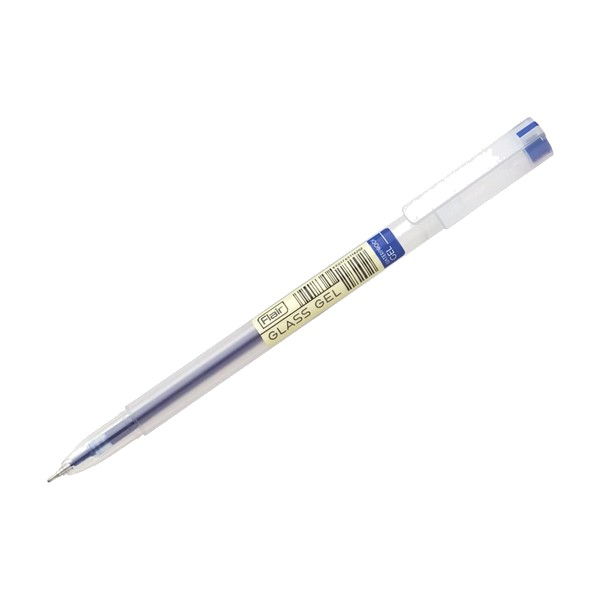
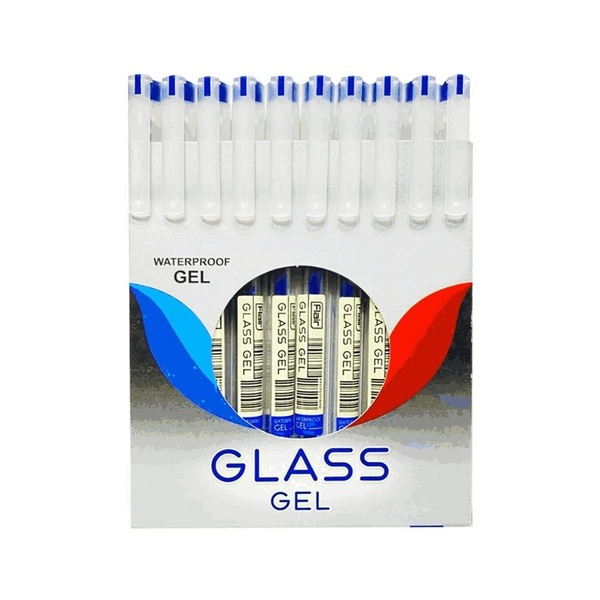
Update Batch 4 product images: Flair Glass Gel, Luxor Uniflow, Unomax Ultron 2X, remove discontinued Fevicol photo

diff --git a/src/data/products.ts b/src/data/products.ts
@@ -2659,7 +2659,6 @@ export const PRODUCTS: Product[] = [
     "isNew": false,
     "sku": "PID-FEV-5",
     "images": [
-      "https://ggumahzbwhgvgortfnvz.supabase.co/storage/v1/object/public/product-images/fevicol-mr-bottle.png",
       "https://ggumahzbwhgvgortfnvz.supabase.co/storage/v1/object/public/product-images/fevicol-mr-nozzle.jpg",
       "https://ggumahzbwhgvgortfnvz.supabase.co/storage/v1/object/public/product-images/fevicol-mr-spiderman.jpg"
     ],
@@ -2714,7 +2713,6 @@ export const PRODUCTS: Product[] = [
     "isNew": false,
     "sku": "PID-FEV-10",
     "images": [
-      "https://ggumahzbwhgvgortfnvz.supabase.co/storage/v1/object/public/product-images/fevicol-mr-bottle.png",
       "https://ggumahzbwhgvgortfnvz.supabase.co/storage/v1/object/public/product-images/fevicol-mr-nozzle.jpg",
       "https://ggumahzbwhgvgortfnvz.supabase.co/storage/v1/object/public/product-images/fevicol-mr-spiderman.jpg"
     ],
@@ -2769,7 +2767,6 @@ export const PRODUCTS: Product[] = [
     "isNew": false,
     "sku": "PID-FEV-25",
     "images": [
-      "https://ggumahzbwhgvgortfnvz.supabase.co/storage/v1/object/public/product-images/fevicol-mr-bottle.png",
       "https://ggumahzbwhgvgortfnvz.supabase.co/storage/v1/object/public/product-images/fevicol-mr-nozzle.jpg",
       "https://ggumahzbwhgvgortfnvz.supabase.co/storage/v1/object/public/product-images/fevicol-mr-spiderman.jpg"
     ],
@@ -2824,7 +2821,6 @@ export const PRODUCTS: Product[] = [
     "isNew": false,
     "sku": "PID-FEV-60",
     "images": [
-      "https://ggumahzbwhgvgortfnvz.supabase.co/storage/v1/object/public/product-images/fevicol-mr-bottle.png",
       "https://ggumahzbwhgvgortfnvz.supabase.co/storage/v1/object/public/product-images/fevicol-mr-nozzle.jpg",
       "https://ggumahzbwhgvgortfnvz.supabase.co/storage/v1/object/public/product-images/fevicol-mr-spiderman.jpg"
     ],
@@ -2879,7 +2875,6 @@ export const PRODUCTS: Product[] = [
     "isNew": false,
     "sku": "PID-FEV-100",
     "images": [
-      "https://ggumahzbwhgvgortfnvz.supabase.co/storage/v1/object/public/product-images/fevicol-mr-bottle.png",
       "https://ggumahzbwhgvgortfnvz.supabase.co/storage/v1/object/public/product-images/fevicol-mr-nozzle.jpg",
       "https://ggumahzbwhgvgortfnvz.supabase.co/storage/v1/object/public/product-images/fevicol-mr-spiderman.jpg"
     ],
@@ -2934,7 +2929,6 @@ export const PRODUCTS: Product[] = [
     "isNew": false,
     "sku": "PID-FEV-200",
     "images": [
-      "https://ggumahzbwhgvgortfnvz.supabase.co/storage/v1/object/public/product-images/fevicol-mr-bottle.png",
       "https://ggumahzbwhgvgortfnvz.supabase.co/storage/v1/object/public/product-images/fevicol-mr-nozzle.jpg",
       "https://ggumahzbwhgvgortfnvz.supabase.co/storage/v1/object/public/product-images/fevicol-mr-spiderman.jpg"
     ],
@@ -4405,7 +4399,8 @@ export const PRODUCTS: Product[] = [
     "isNew": false,
     "sku": "LUXO-UNIFLO-BP",
     "images": [
-      "https://ggumahzbwhgvgortfnvz.supabase.co/storage/v1/object/public/product-images/luxor-uniflow-ball-pen-pack-of-10-3.jpg"
+      "https://ggumahzbwhgvgortfnvz.supabase.co/storage/v1/object/public/product-images/luxor-uniflow-ball-pen-pack-of-10-3.jpg",
+      "https://ggumahzbwhgvgortfnvz.supabase.co/storage/v1/object/public/product-images/luxor-uniflow-ball-pen-pack-of-10-3-closeup.jpg"
     ],
     "shortDescription": "LUXOR Uniflow Ball Pen (Pack of 10) engineered for smooth, smudge-free writing with durable tungsten carbide tip.",
     "description": "The LUXOR Uniflow Ball Pen (Pack of 10) delivers dependable, fluid ink flow with an ergonomic grip designed for extended exams, office documentation, and daily classroom notes.",
@@ -4461,7 +4456,7 @@ export const PRODUCTS: Product[] = [
     "sku": "UNOM-ULTRON-BP",
     "images": [
       "https://ggumahzbwhgvgortfnvz.supabase.co/storage/v1/object/public/product-images/unomax-ultron-2x-ball-pen-pack-of-10-3.jpg",
-      "https://ggumahzbwhgvgortfnvz.supabase.co/storage/v1/object/public/product-images/unomax-ultron-2x-ball-pen-pack-of-10-3-banner.jpg"
+      "https://ggumahzbwhgvgortfnvz.supabase.co/storage/v1/object/public/product-images/unomax-ultron-2x-ball-pen-pack-of-10-3-pens.jpg"
     ],
     "shortDescription": "UNOMAX Ultron 2X Ball Pen (Pack of 10) engineered for smooth, smudge-free writing with durable tungsten carbide tip.",
     "description": "The UNOMAX Ultron 2X Ball Pen (Pack of 10) delivers dependable, fluid ink flow with an ergonomic grip designed for extended exams, office documentation, and daily classroom notes.",
@@ -5409,7 +5404,8 @@ export const PRODUCTS: Product[] = [
     "isNew": false,
     "sku": "FLAI-GLASS--GEL",
     "images": [
-      "https://ggumahzbwhgvgortfnvz.supabase.co/storage/v1/object/public/product-images/flair-glass-gel-pack-of-10-3.jpg"
+      "https://ggumahzbwhgvgortfnvz.supabase.co/storage/v1/object/public/product-images/flair-glass-gel-pack-of-10-3.jpg",
+      "https://ggumahzbwhgvgortfnvz.supabase.co/storage/v1/object/public/product-images/flair-glass-gel-pack-of-10-3-pens.jpg"
     ],
     "shortDescription": "FLair Glass gel (Pack of 10) with vibrant Japanese waterproof gel ink technology and instant quick-dry formula.",
     "description": "Experience bold, effortless handwriting with the FLair Glass gel (Pack of 10). Engineered with fast-drying water-resistant pigment gel ink that will not smudge or feather on standard notebook paper.",
